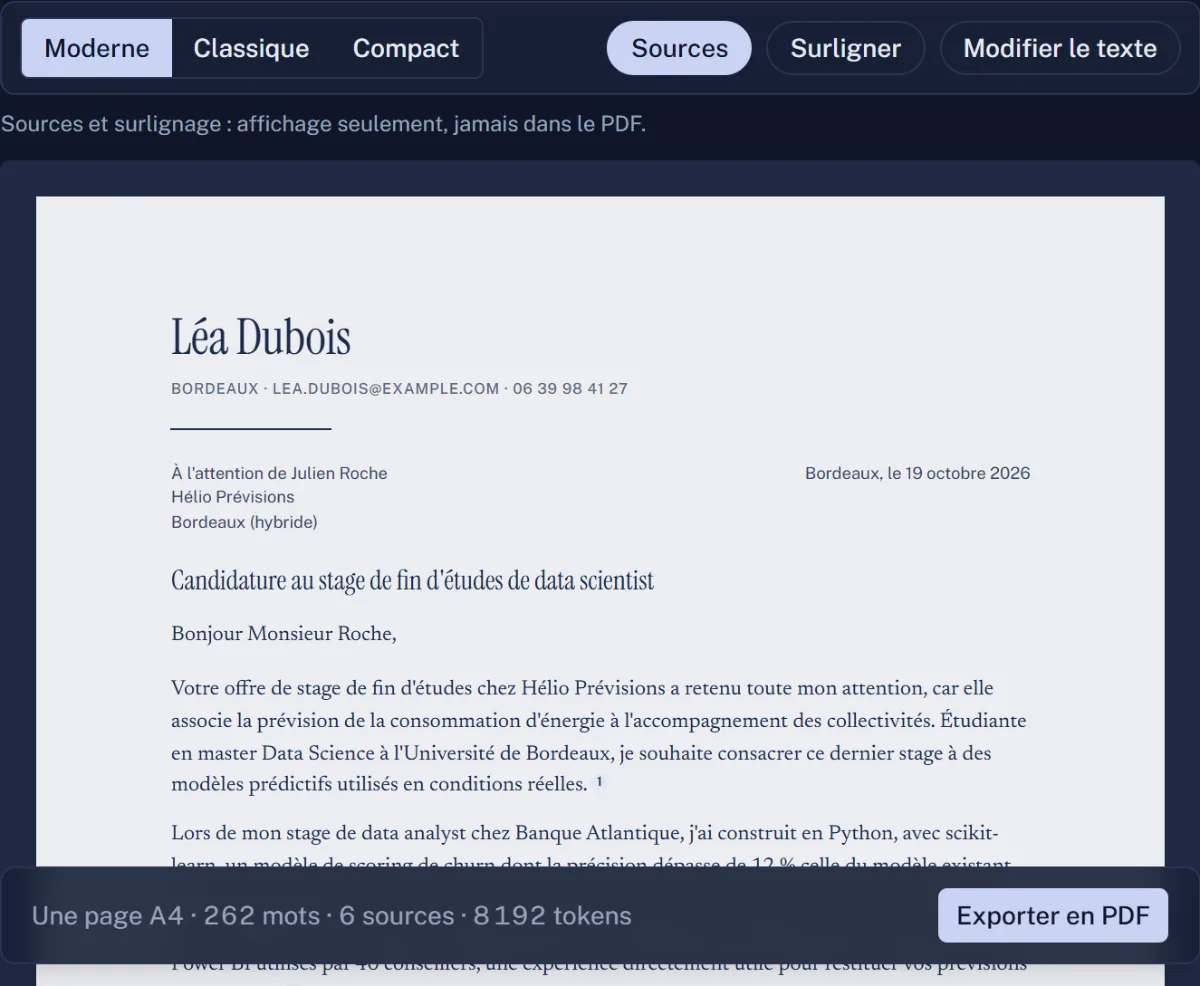
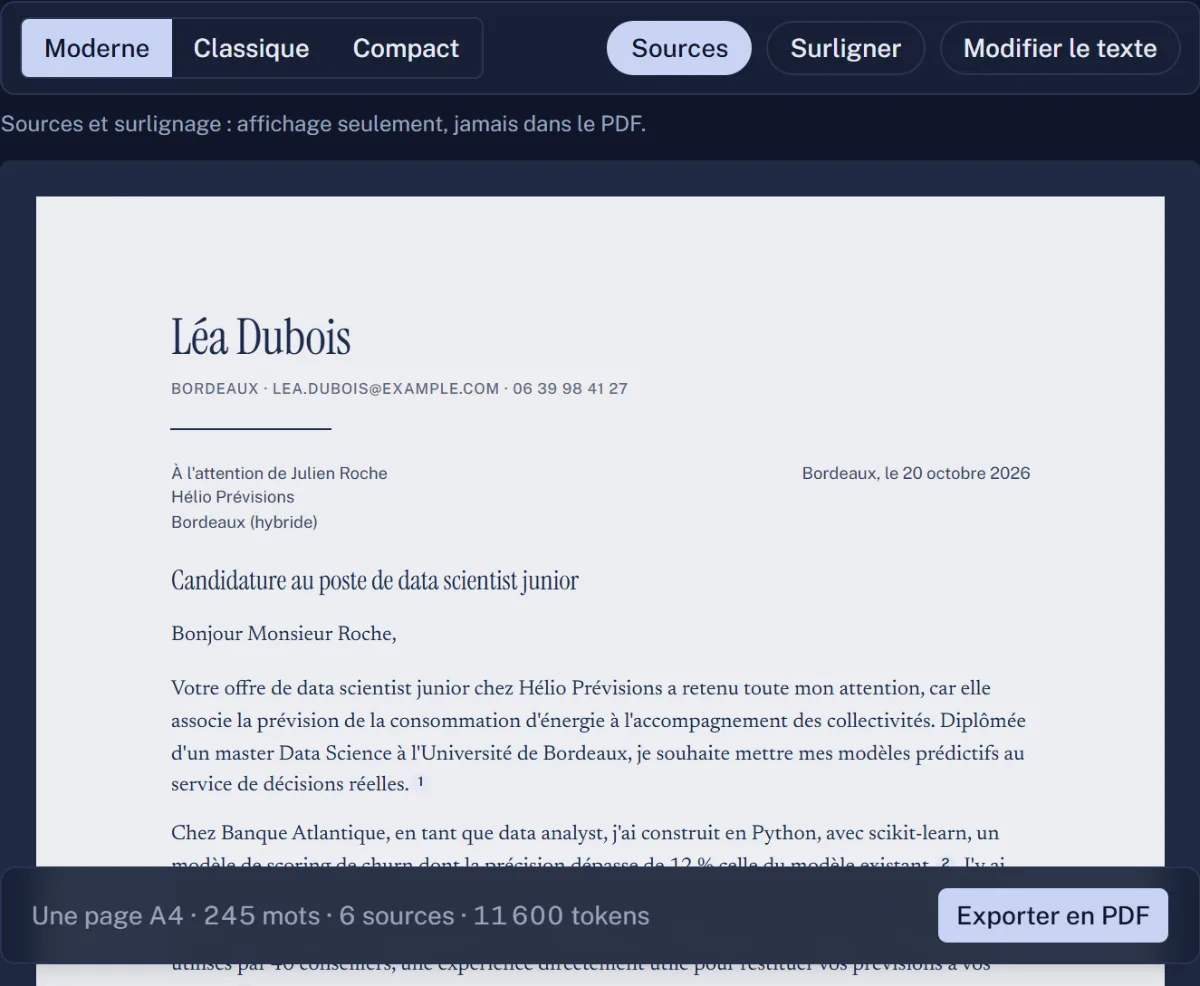
Rework project list: TaskApp in main list, new LMAgent capture
- New LMAgent screenshot from a demo letter for a junior data
  scientist position, so the page no longer mentions an internship
- LMAgent and Fedi's Planner use "Personal project" like the others
- TaskApp moves to the main project list in place of Study Assistant,
  which moves to More projects
- DiagSein IA is finished: drop the "In progress" badge

diff --git a/index.html b/index.html
@@ -316,11 +316,11 @@ footer{text-align:center;padding:0 20px 40px;font-weight:300;opacity:.5;font-siz
 
   /* ---------- Projects ---------- */
   const PROJECTS = [
-    {cat:'Personal project · 2026', name:'LMAgent', link:'https://github.com/fedifedifedi/LMAgent',
+    {cat:'Personal project', name:'LMAgent', link:'https://github.com/fedifedifedi/LMAgent',
      img:'assets/projects/lmagent.webp', alt:'LMAgent cover letter page with sources shown, demo profile',
      desc:"An AI agent that writes a cover letter tailored to each job offer, straight from a CV (PDF or even a photo). Every sentence cites the part of the profile it comes from, so the agent can't invent anything. It analyses the offer, drafts, critiques its own letter, rewrites it, and exports a clean one-page PDF.",
      tags:['Next.js','TypeScript','Gemini','Zod','Prisma','GSAP']},
-    {cat:'Personal project · 2026', name:"Fedi's Planner", link:'https://github.com/fedifedifedi/fedis-planner',
+    {cat:'Personal project', name:"Fedi's Planner", link:'https://github.com/fedifedifedi/fedis-planner',
      img:'assets/projects/fedis-planner.webp', alt:"Fedi's Planner weekly timetable solved with CP-SAT",
      desc:"Builds conflict-free school timetables with Google's CP-SAT solver. When a teacher is absent, it replans by moving as few classes as possible. When no timetable exists, it tells you exactly which constraints clash. An exact reformulation of the room constraints cut the model by 14×.",
      tags:['Python','OR-Tools','FastAPI','Next.js','pytest']},
@@ -340,11 +340,11 @@ footer{text-align:center;padding:0 20px 40px;font-weight:300;opacity:.5;font-siz
      desc:'When machine learning meets football: an analytics platform built on real player and match data.',
      points:['9,048 FIFA 23 players, 245 teams','58,892 real matches','81% accuracy on player positions'],
      tags:['Python','Random Forest','XGBoost']},
-    {cat:'Personal project', name:'Study Assistant', wip:true,
-     desc:'Turns course PDFs into sourced answers, flashcards and quizzes, with spaced repetition to plan reviews.',
-     points:['Sourced answers from PDFs','Flashcards and quizzes','Spaced repetition'],
-     tags:['RAG','Web app']},
-    {cat:'ITEAM, with Oussama Jbeli', name:'DiagSein IA', wip:true,
+    {cat:'Personal project', name:'TaskApp', link:'https://github.com/fedifedifedi/taskapp',
+     desc:'A full-stack task manager: sign in, create tasks, track their status and due dates, and spot overdue work at a glance, with search, filters and a dashboard.',
+     points:['Express API, Prisma, PostgreSQL','React front end, shared Zod schemas','Playwright tests, CI, Docker, Railway'],
+     tags:['TypeScript','React','Express','Prisma','PostgreSQL']},
+    {cat:'ITEAM, with Oussama Jbeli', name:'DiagSein IA',
      desc:'A decision-support tool built for the Advanced AI course to assist breast cancer diagnosis.',
      points:['Medical decision support','Machine learning models','Course project, Advanced AI'],
      tags:['Machine Learning','Healthcare']},
@@ -352,7 +352,7 @@ footer{text-align:center;padding:0 20px 40px;font-weight:300;opacity:.5;font-siz
   const MORE = [
     {cat:'AI, data & IoT', name:'KπBIOS', desc:'A platform combining AI, data analytics, IoT and software engineering to turn business data into decisions.'},
     {cat:'IoT & embedded', name:'Smart Water Management', desc:'Monitors water consumption, detects abnormal usage and sends real-time alerts.'},
-    {cat:'Personal project', name:'TaskApp', desc:'A task management web application.', link:'https://github.com/fedifedifedi/taskapp'},
+    {cat:'Personal project', name:'Study Assistant', desc:'Turns course PDFs into sourced answers, flashcards and quizzes, with spaced repetition to plan reviews.'},
   ];
   document.getElementById('plist').innerHTML = PROJECTS.map((p,i) => `
     <article class="pcard fade" style="--d:${(i%2)*.1}s">
